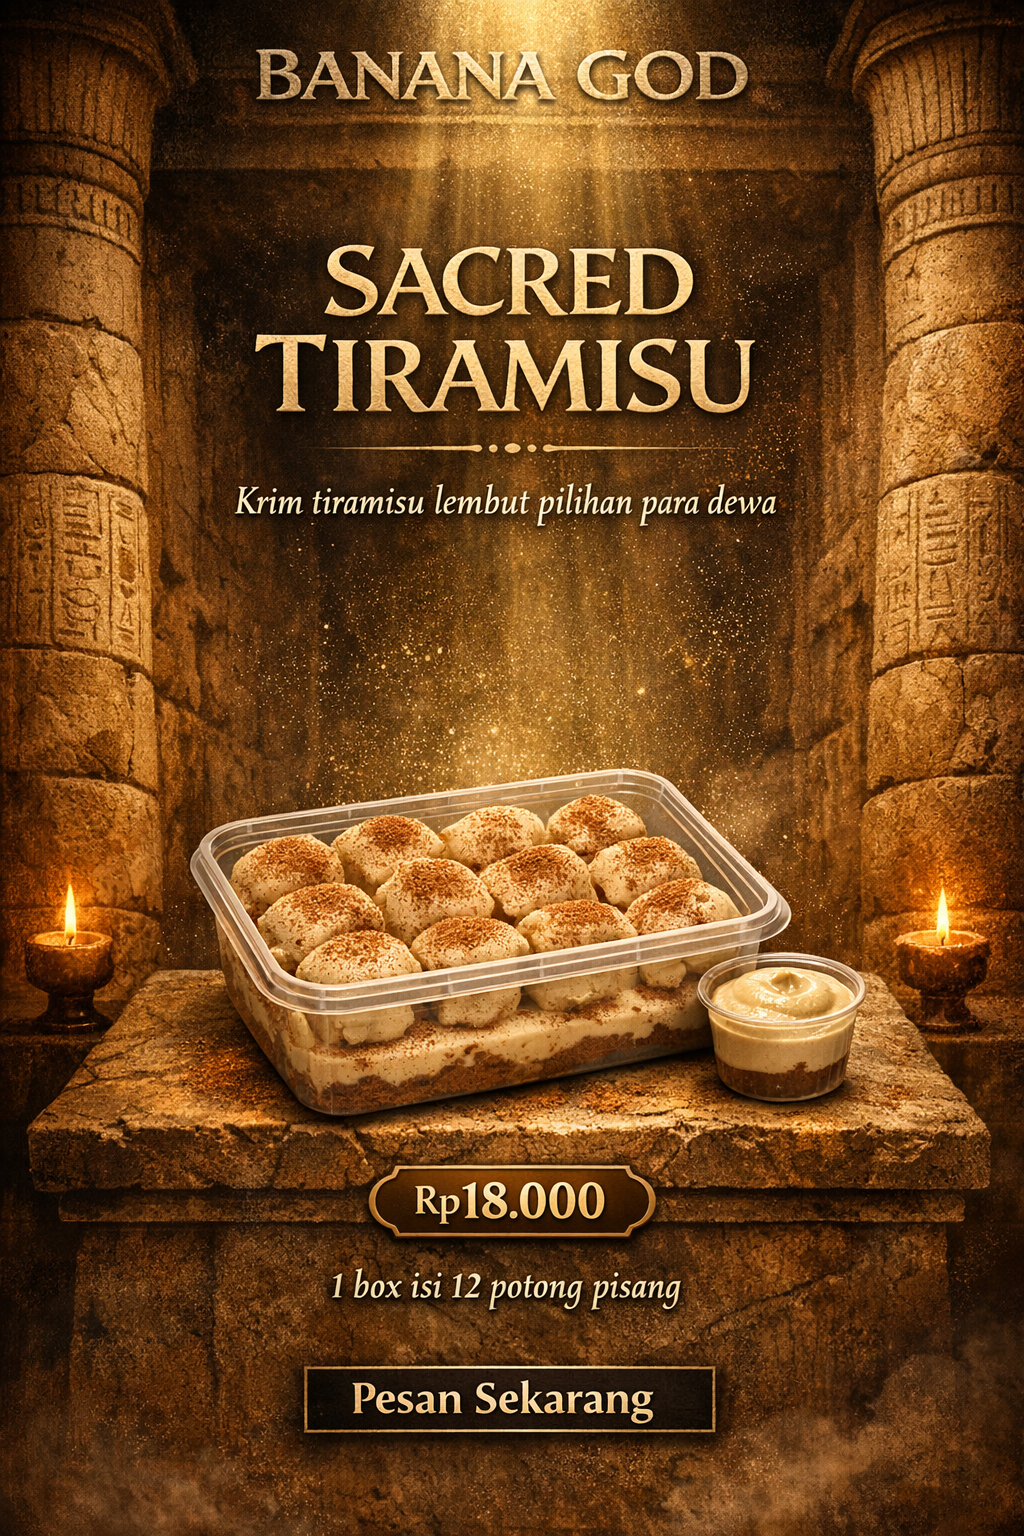
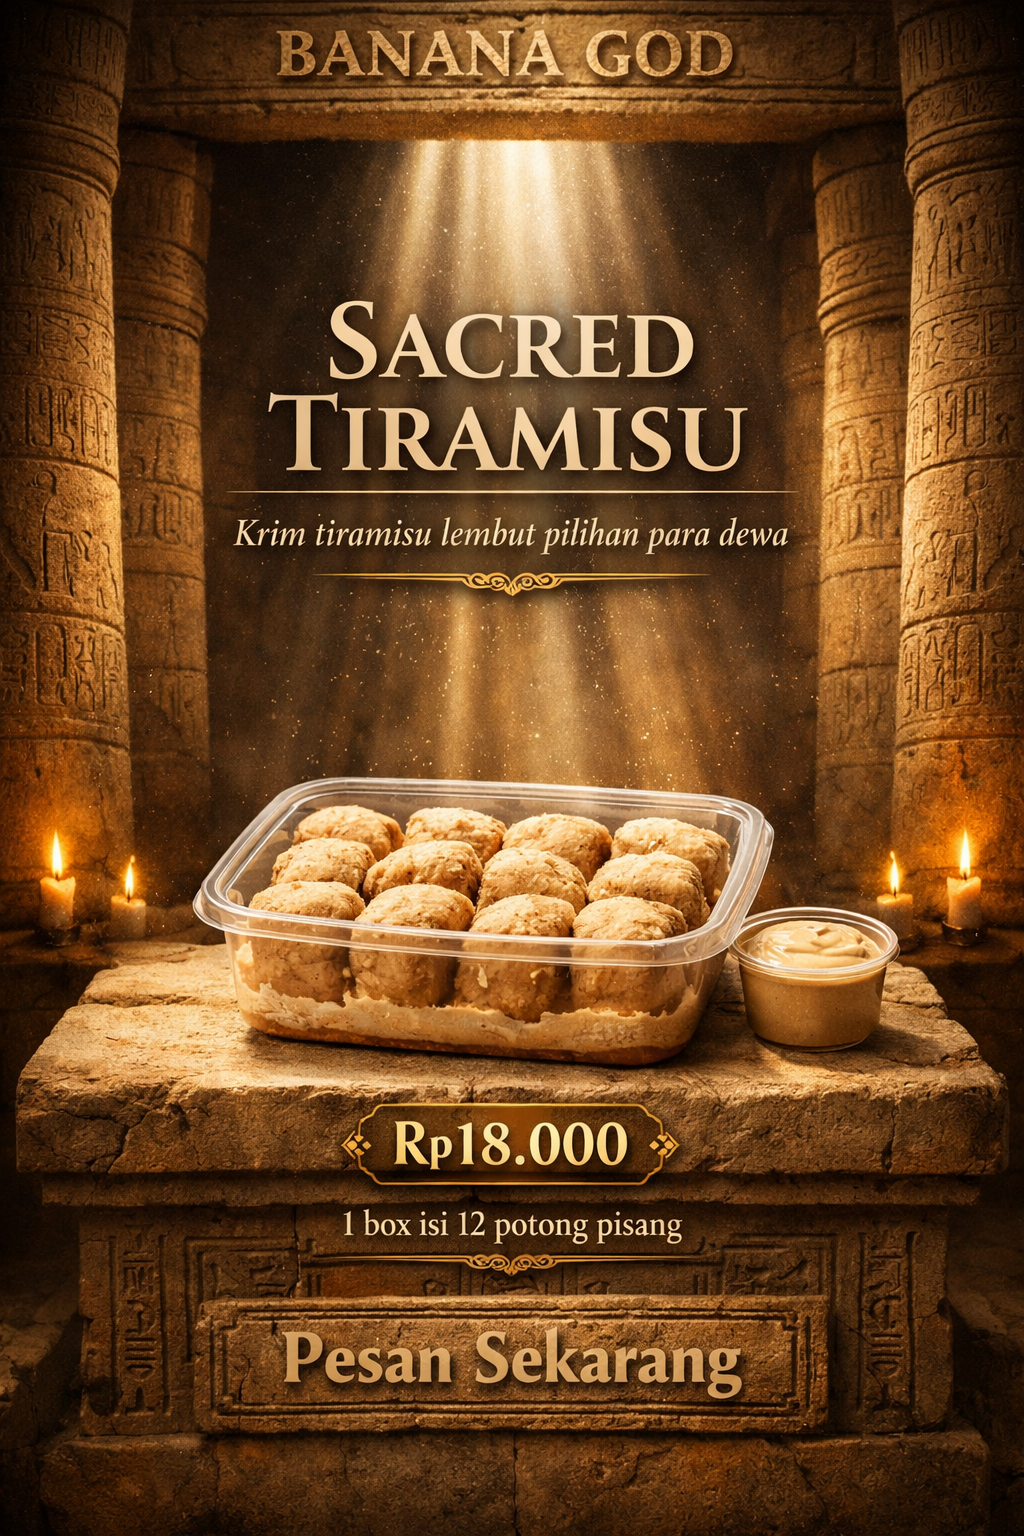
update

diff --git a/frontend/src/data/menu.js b/frontend/src/data/menu.js
@@ -11,7 +11,7 @@ export const menuList = [
         name: "SACRED TIRAMISU",
         desc: "Krim tiramisu lembut pilihan para dewa",
         price: "Rp 18.000",
-        image: "/images/SACRED TIRAMISU 1.png"
+        image: "/images/SACRED TIRAMISU 2.png"
     },
     // {
     //     id: 3,
